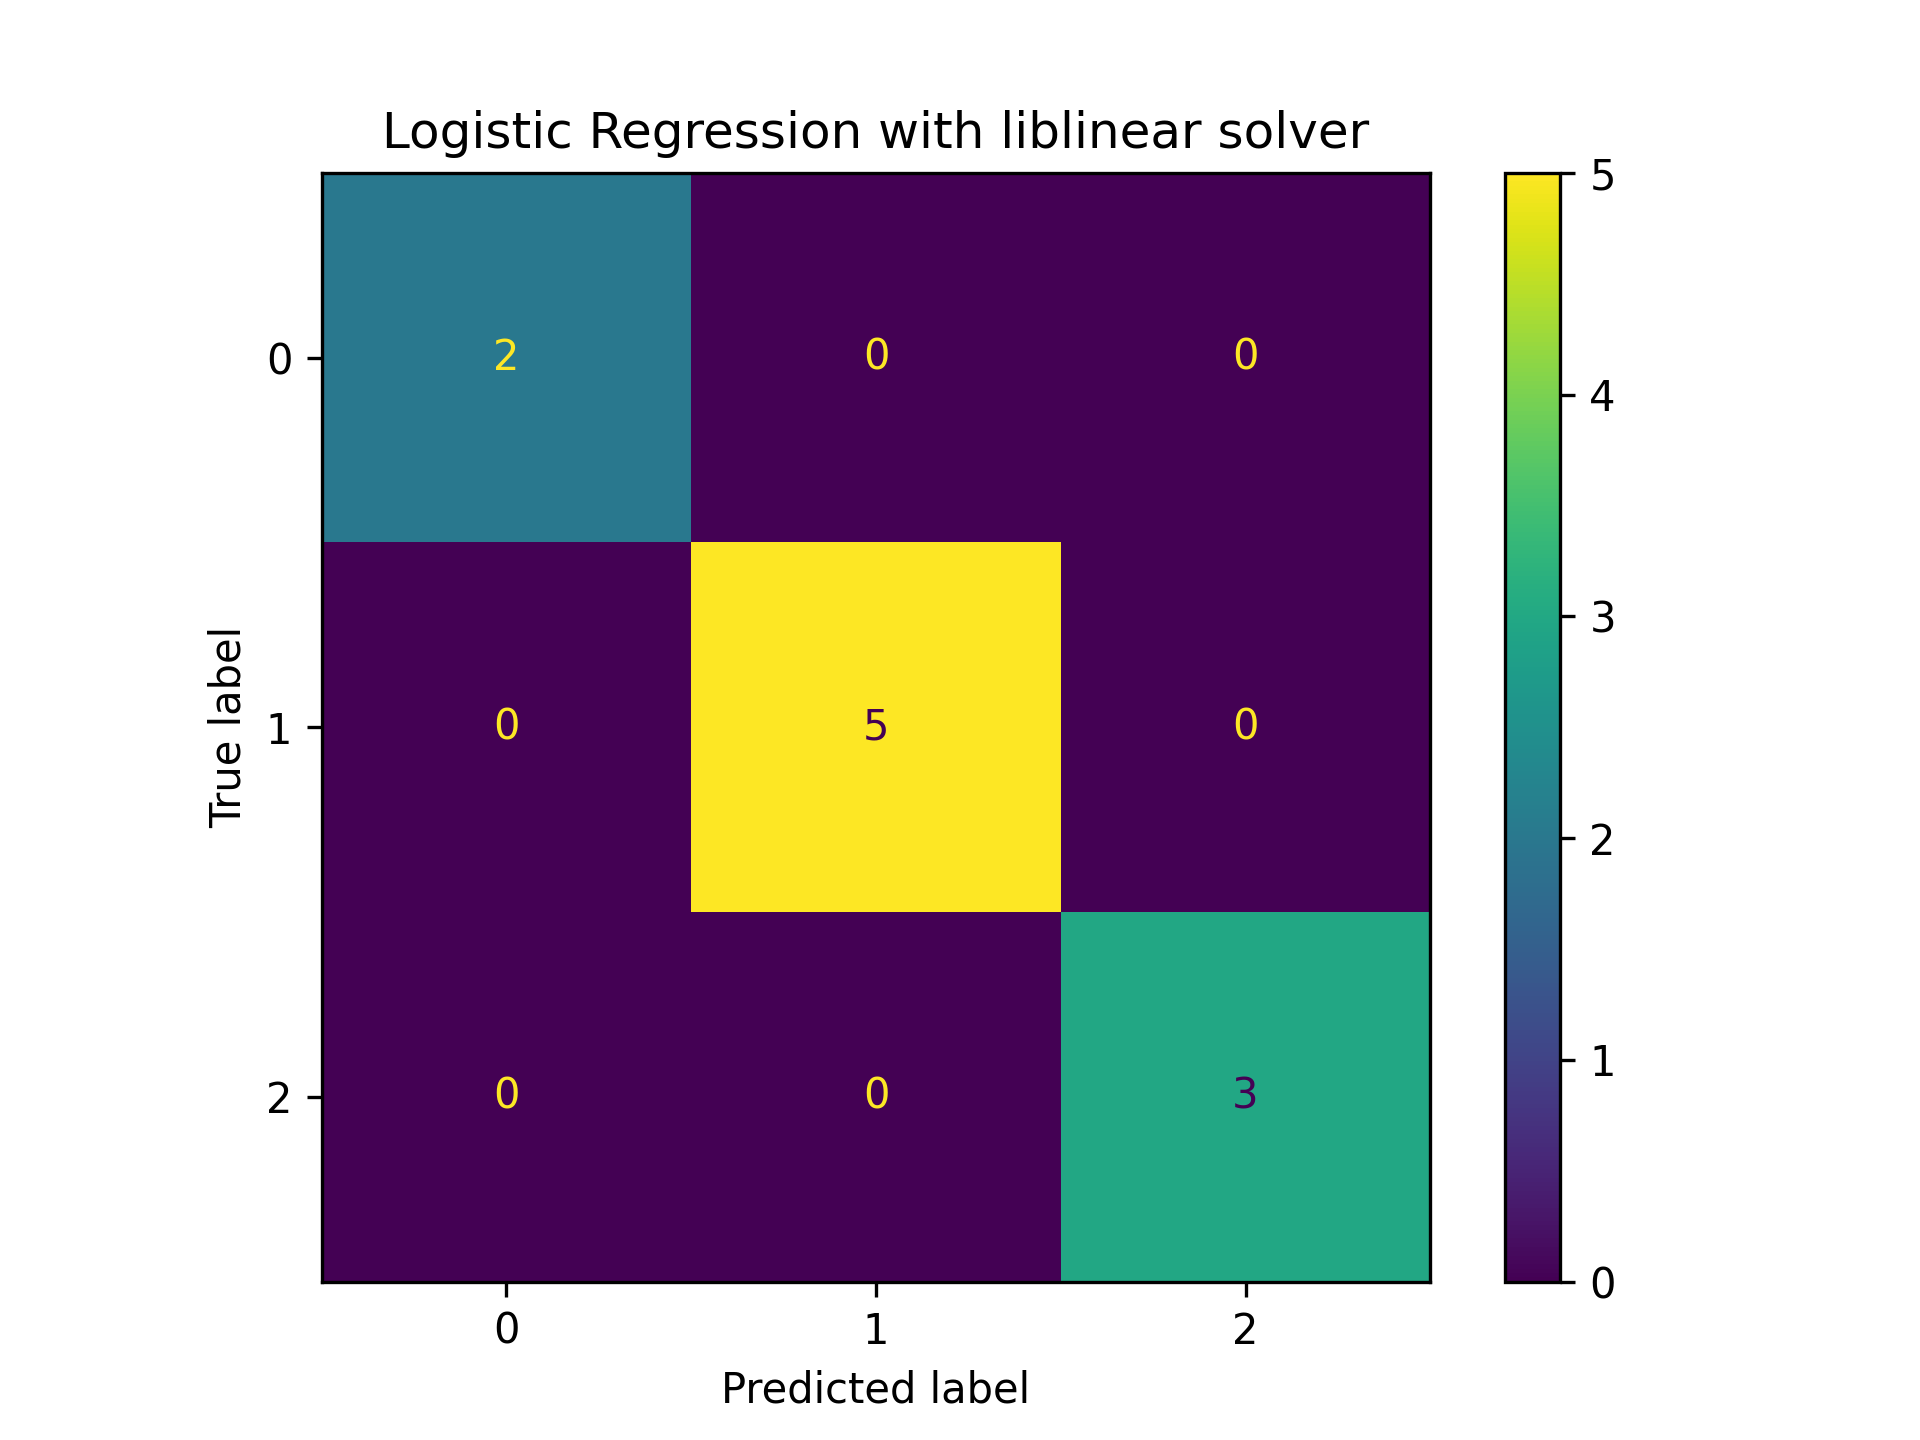
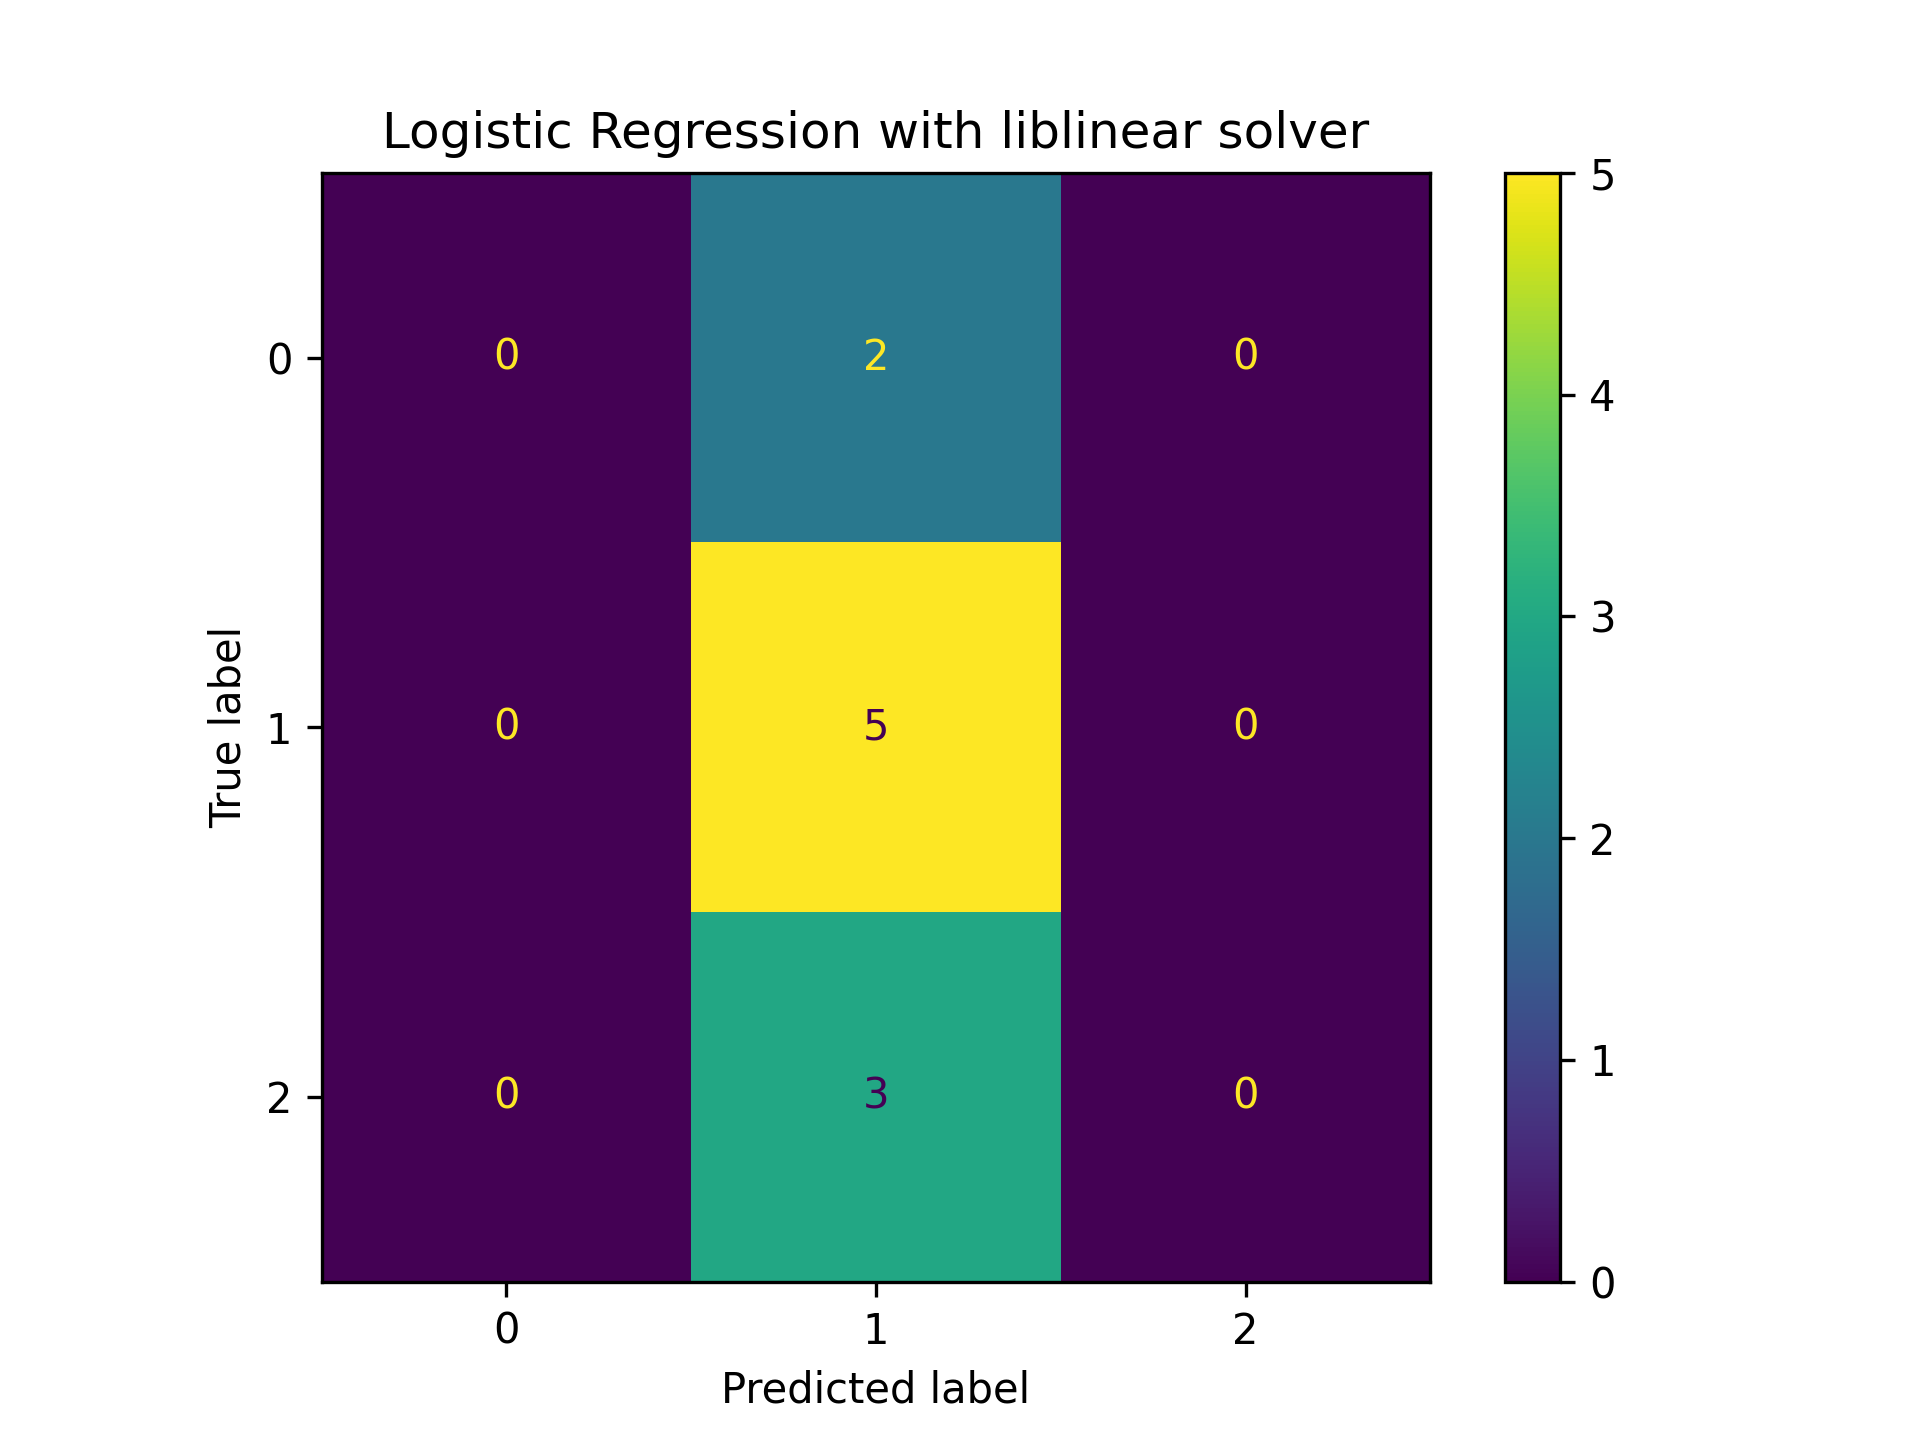
Commit ML

Changed region(s): [[0.3438, 0.625, 0.75, 0.9062], [0.1562, 0.0938, 0.5625, 0.375]]

diff --git a/src/quiniela/models.py b/src/quiniela/models.py
@@ -62,7 +62,7 @@ class QuinielaModel:
         # valid_matches.isna().sum()
         # valid_matches["time"].value_counts()
 
-        valid_matches = valid_matches.drop(columns=["season", "date", "score", "time"])  
+        valid_matches = valid_matches.drop(columns=["season", "date", "score", "time", "home_goals", "away_goals"])  
         self.teams = pd.unique(valid_matches[["home_team", "away_team"]].values.ravel()) # Save the teams that have been used to fit the data
 
         encoder = OneHotEncoder(handle_unknown="ignore", categories=[self.teams, self.teams])
@@ -128,11 +128,13 @@ class QuinielaModel:
         grid_search_logReg_liblinear.fit(X_train, y_train)
         self.trained_model = grid_search_logReg_liblinear.best_estimator_
 
-        print(df_final.head(10))
+        print(df_final)
 
     def predict(self, predict_data):
         # Do something here to predict
         matches = predict_data.copy()
+        print("MATCHES")
+        print(matches)
         valid_matches = matches[matches['score'].notna() & matches['score'].str.contains(':')].copy()
         valid_matches[['home_goals', 'away_goals']] = (valid_matches['score'].str.split(':', expand=True).astype(int))
         valid_matches['result'] = valid_matches.apply(get_result, axis=1)
@@ -144,7 +146,7 @@ class QuinielaModel:
         valid_matches.info()
         valid_matches.describe()
 
-        valid_matches = valid_matches.drop(columns=["season", "date", "score", "time"])  
+        valid_matches = valid_matches.drop(columns=["season", "date", "score", "time", "home_goals", "away_goals"])  
 
         encoder = OneHotEncoder(handle_unknown="ignore", categories=[self.teams, self.teams])
         encoded = encoder.fit_transform(valid_matches[["home_team", "away_team"]])
@@ -163,8 +165,8 @@ class QuinielaModel:
         disp_liblinear.plot()
         plt.title("Logistic Regression with liblinear solver")
         plt.savefig("confusion_matrix.png", dpi=300)
-        plt.show()
-
+        
+        print(df_final)
         return y_pred
         
 
